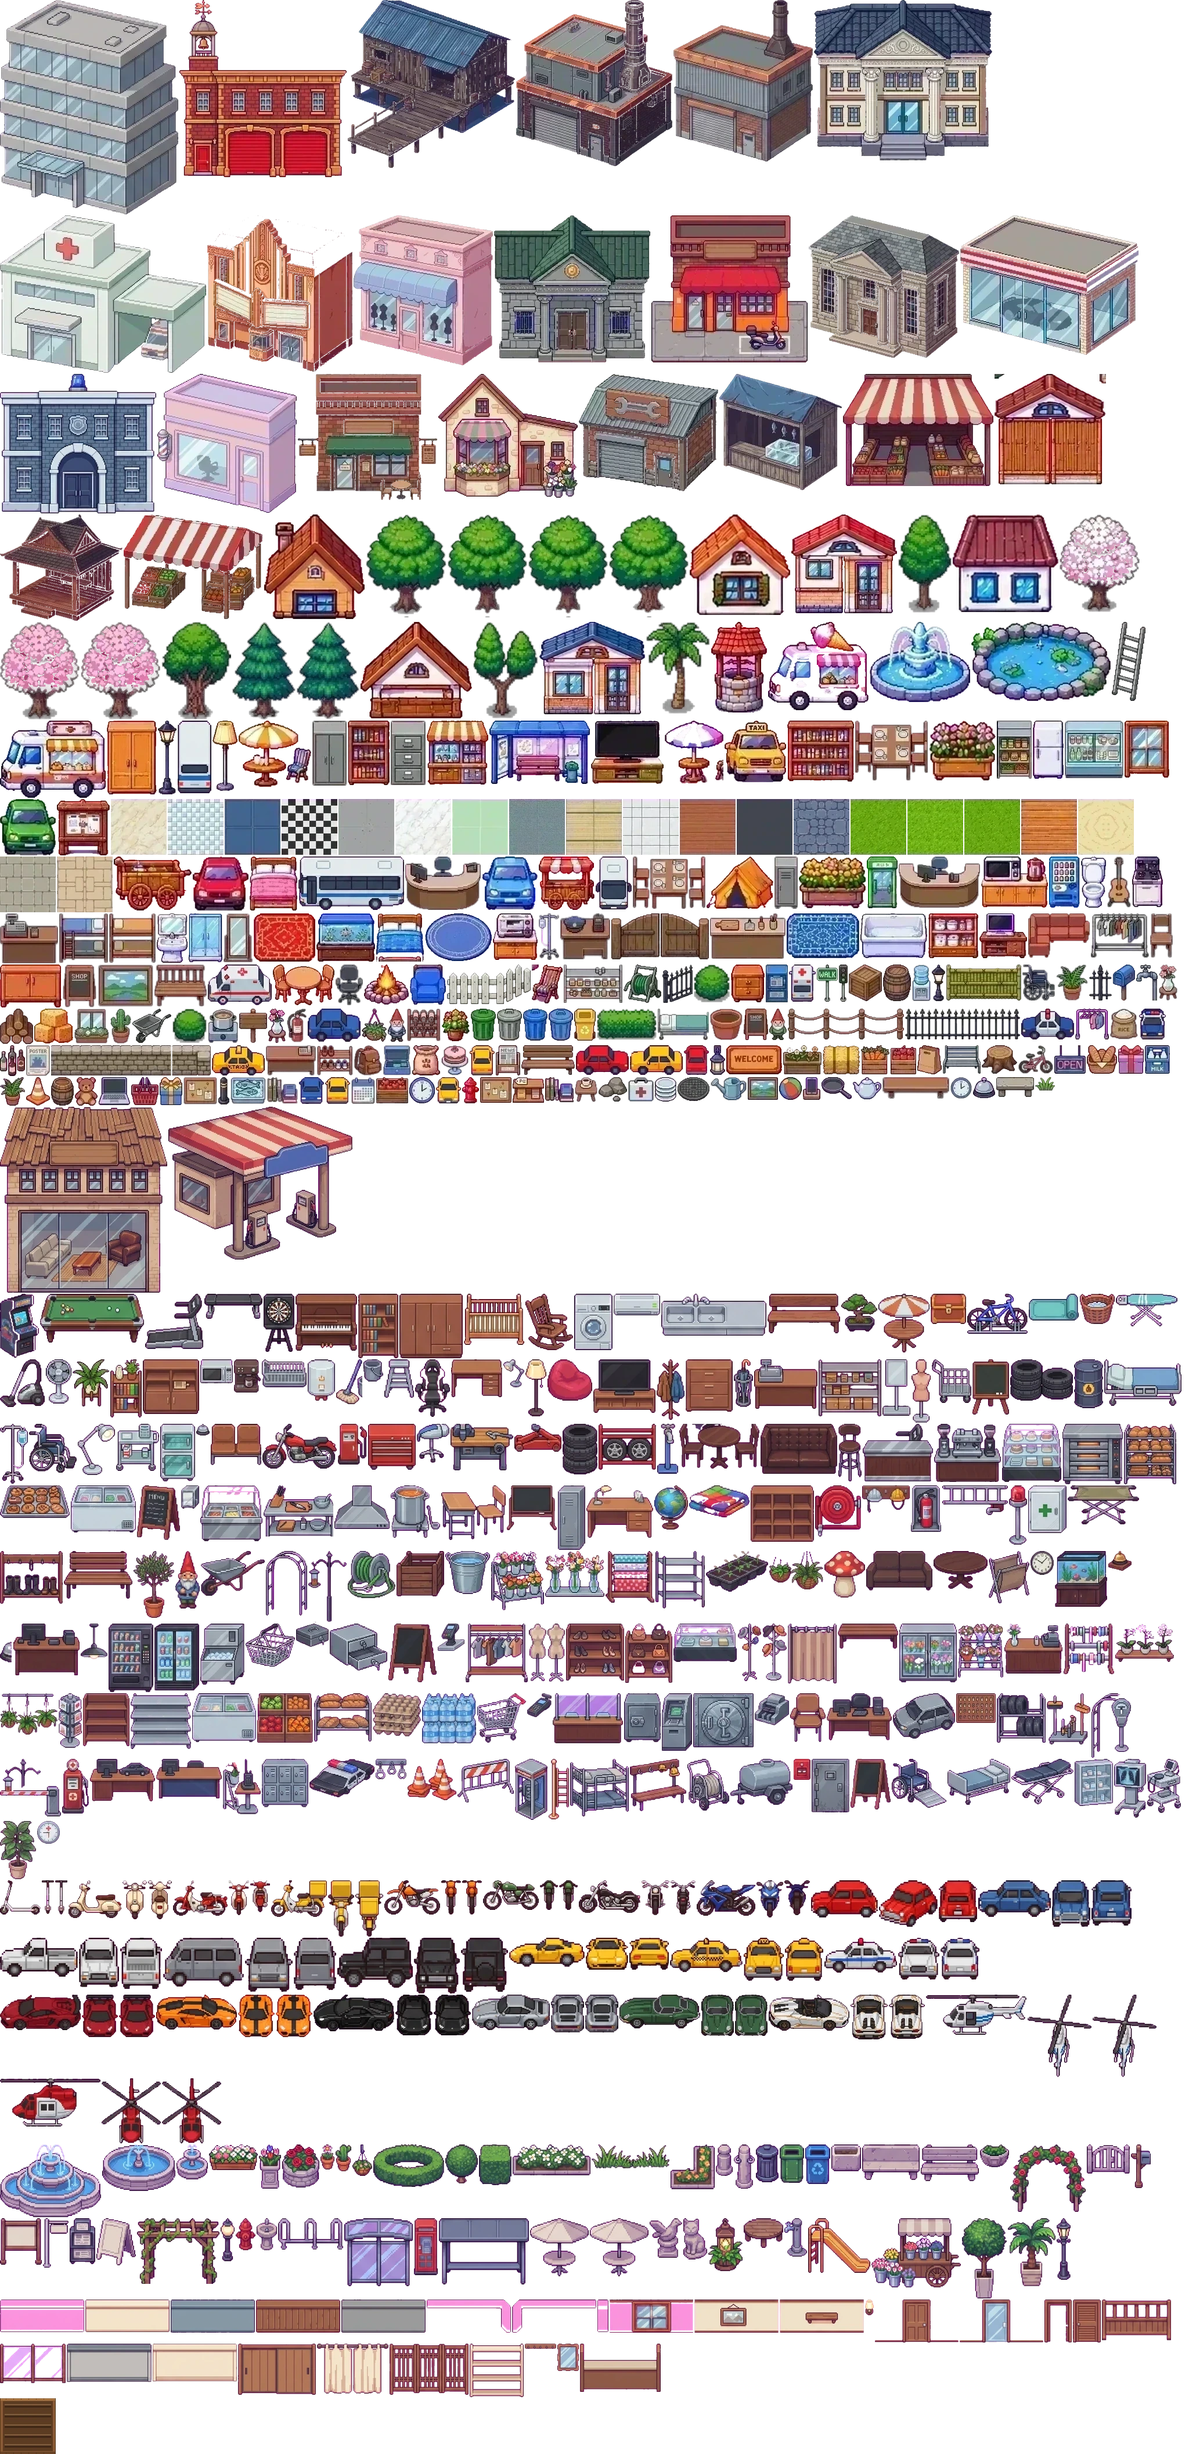
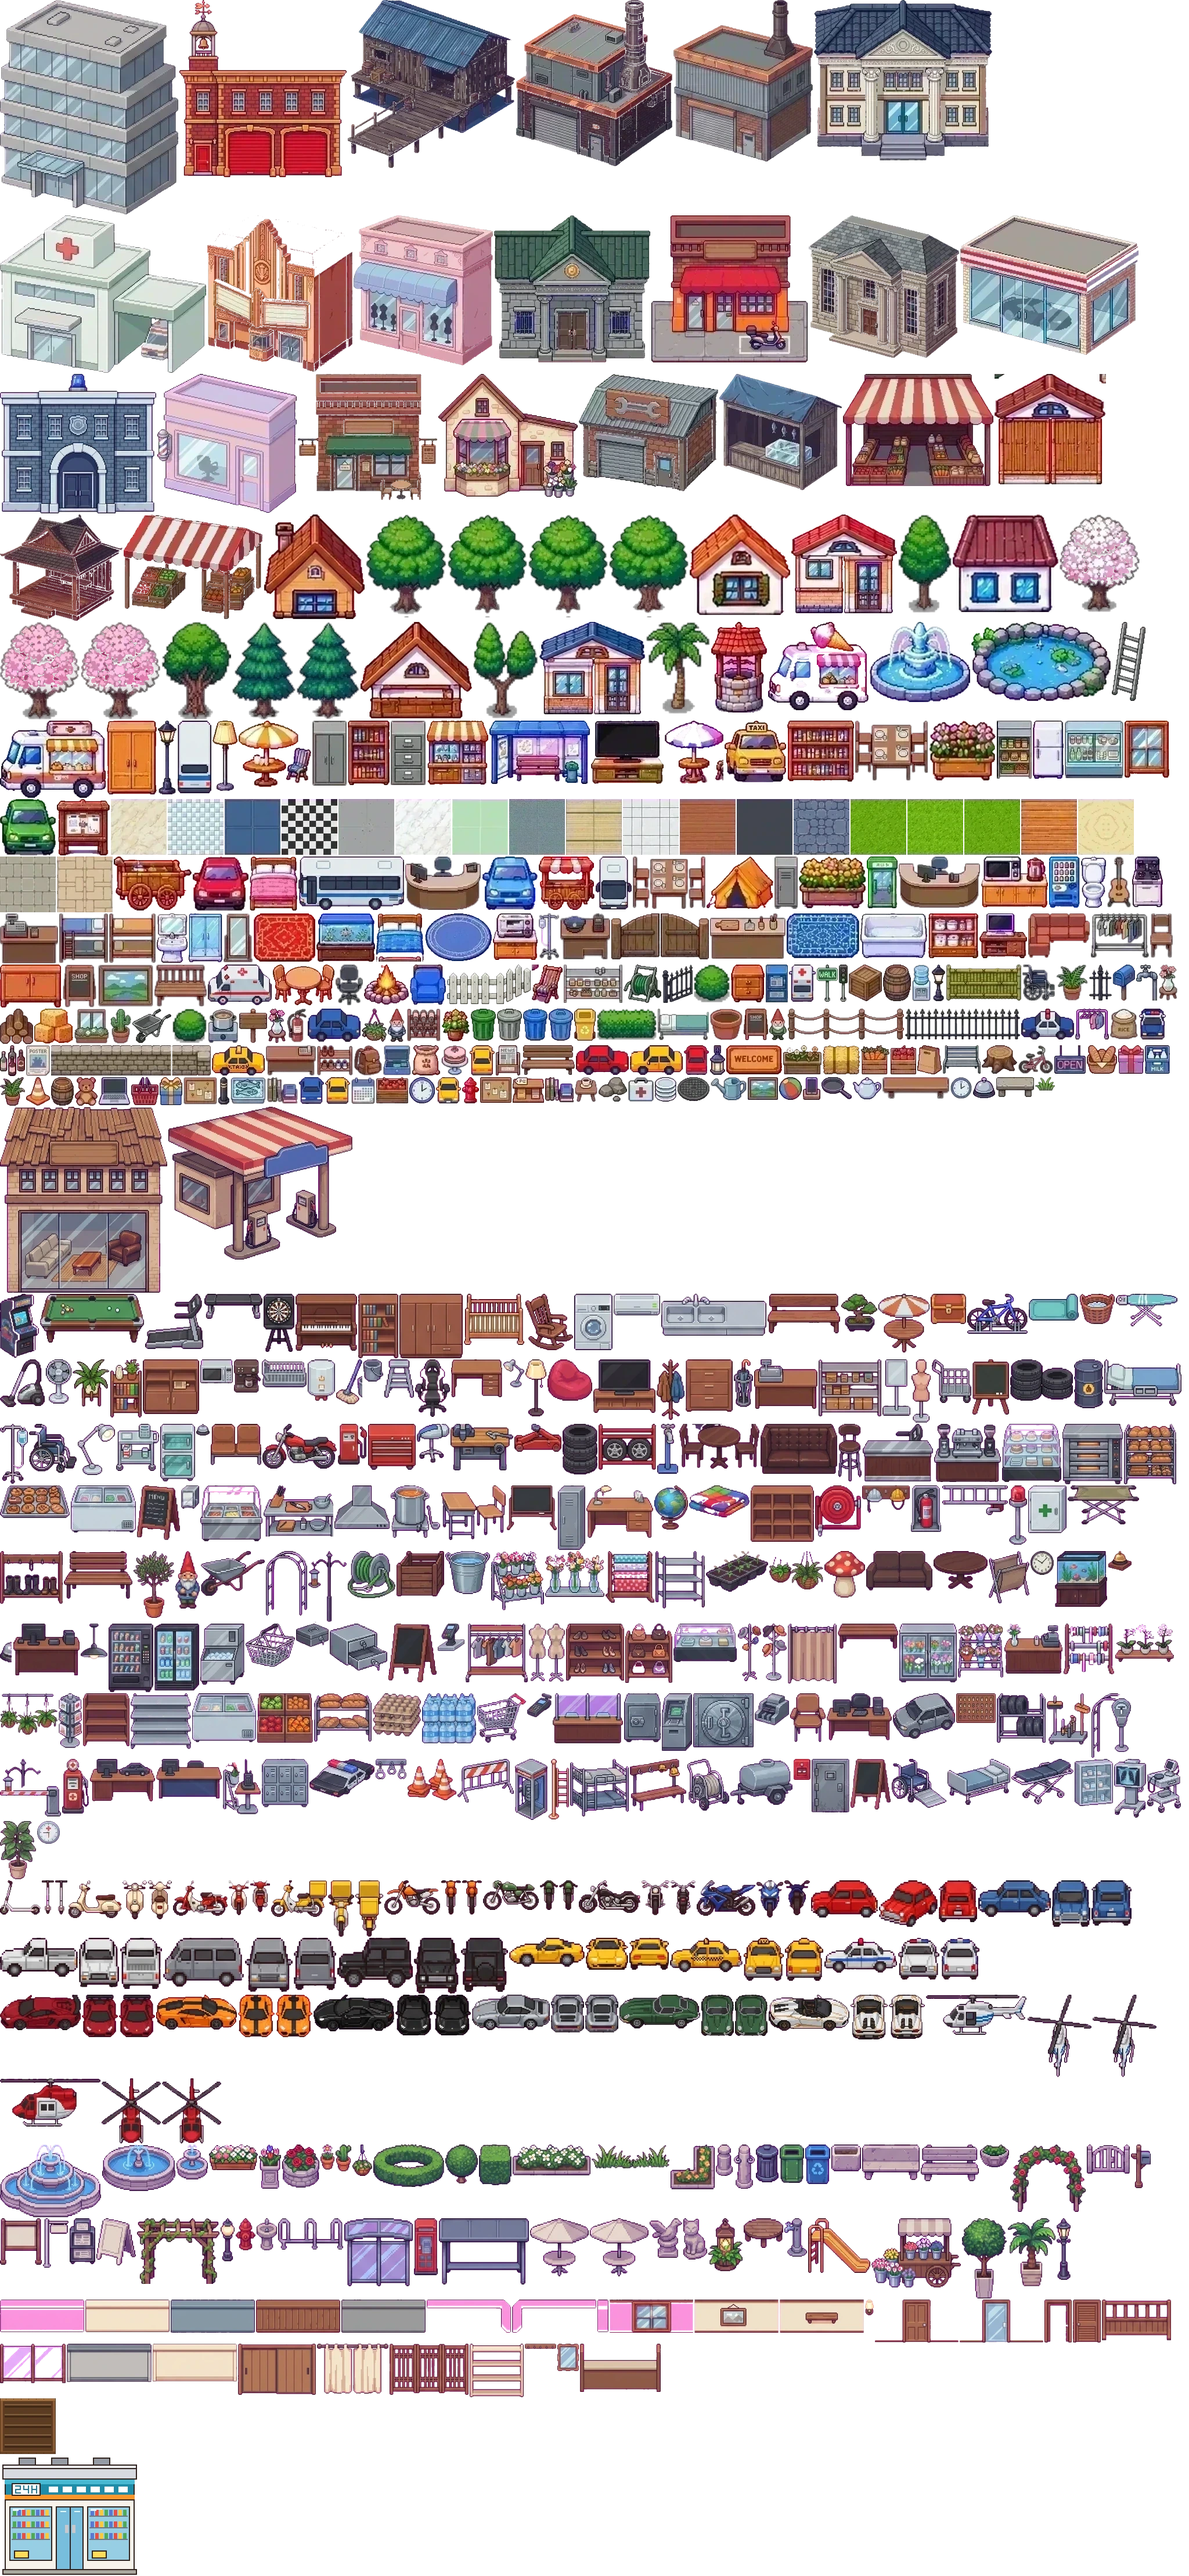
24-hour convenience store on the north street: always stocked water, bread, canned coffee, microwave bento, ice cream, snacks, energy drinks, cup noodles and first aid at a small mark-up
Claude-Session: https://claude.ai/code/session_011vTRLcvJmqJKhBboYRSi88

diff --git a/server/data.js b/server/data.js
@@ -121,7 +121,8 @@ function pathDown(b, toY) { const cx = Math.floor(b.x + b.w / 2); for (let y = b
   });
   rect(52, 85, 40, 2, 'c'); rect(8, 85, 30, 2, 'c'); rect(37, 78, 2, 9, 'c'); rect(38, 78, 12, 2, 'c'); rect(60, 78, 2, 7, 'c');
   // empty lots kept for careers added later
-  for (const [x, y] of [[75, 12], [84, 12]]) { rect(x - 2, y - 3, 6, 3, 'm'); prop('signpost', x + .5, y + .2); }
+  for (const [x, y] of [[84, 12]]) { rect(x - 2, y - 3, 6, 3, 'm'); prop('signpost', x + .5, y + .2); }
+  B('cstore', 'b_cstore', 72, 13, { label: 'ร้านสะดวกซื้อ 24 ชม.', icon: '🏪', st: 'cstore', outdoor: true, noSlot: true });   // open round the clock, served at the counter out front
   B('gas', 'b_gas', 65, 13, { label: 'ปั๊มน้ำมัน', icon: '⛽', deco: true });   // scenery (no vehicles in the game)
 
   // town square: fountain, benches, flowers
@@ -487,6 +488,8 @@ const dayAt = t => Math.floor((t + TIME_OFF + DAY_MS - MIDNIGHT_MS) / DAY_MS);
 // game hours that pass per real second at hour h
 const gameRate = h => (h >= CLOCK.dawn && h < CLOCK.dusk) ? (CLOCK.dusk - CLOCK.dawn) / (CLOCK.dayMin * 60) : (24 - (CLOCK.dusk - CLOCK.dawn)) / ((24 - CLOCK.dayMin) * 60);
 // opening hours [open, close) in game hours
+// the 24-hour store: what it stocks and its shelf mark-up over the base price
+const CSTORE = { items: ['water', 'bread', 'coffee', 'bento', 'icecream', 'snack', 'drink', 'noodle', 'painkiller', 'medkit'], markup: 1.35 };
 const HOURS = { fashion: [9, 21], furnshop: [9, 21], barber: [9, 21], police: [0, 24], square: [6, 22], office: [6, 21], market: [0, 24], warehouse: [5, 20], restaurant: [7, 23], kitchen: [5, 23], hospital: [0, 24], school: [7, 18],
   bank: [8, 17], dealer: [8, 20], toolshop: [8, 20], rider: [6, 23], coop: [5, 20], farmbuy: [5, 20], estate: [8, 20], fishclub: [5, 21] };
 const isOpen = (kind, h) => { const o = HOURS[kind]; return !o || (h >= o[0] && h < o[1]); };
@@ -533,6 +536,12 @@ const ITEMS = {
   somtam:  { name: 'ส้มตำ', icon: '🥗', kind: 'meal', base: 90, eat: { hunger: 22, energy: 6 }, menu: 1 },
   shabu:   { name: 'ชุดชาบู', icon: '🍲', kind: 'meal', base: 320, eat: { hunger: 70, energy: 10 }, menu: 1 },
 
+  // convenience-store goods (sold only at the 24-hour store)
+  water:  { name: 'น้ำดื่ม', icon: '💧', kind: 'goods', base: 12, eat: { energy: 3, hunger: 2 } },
+  bread:  { name: 'ขนมปังไส้หมูหยอง', icon: '🥐', kind: 'goods', base: 30, eat: { hunger: 18 } },
+  coffee: { name: 'กาแฟกระป๋อง', icon: '☕', kind: 'goods', base: 35, eat: { energy: 12 } },
+  bento:  { name: 'ข้าวกล่องเวฟ', icon: '🍱', kind: 'goods', base: 55, eat: { hunger: 32, energy: 4 } },
+  icecream: { name: 'ไอศกรีมแท่ง', icon: '🍦', kind: 'goods', base: 25, eat: { hunger: 6, happy: 4 } },
   snack:  { name: 'ขนม', icon: '🍪', kind: 'goods', base: 30, eat: { hunger: 10 }, wholesale: 18, stock: 80, refill: 8 },
   drink:  { name: 'เครื่องดื่มชูกำลัง', icon: '🥤', kind: 'goods', base: 150, eat: { energy: 25 }, wholesale: 105, stock: 12, refill: 25 },
   med_fever:  { name: 'ยาลดไข้', icon: '💊', kind: 'goods', pharmacy: true, base: 300, cures: ['cold'], eat: { health: 5 } },
@@ -987,7 +996,7 @@ PROPS.filter(p => /bin/.test(p.s) && areaAt(p.x, p.y)?.id === 'town').forEach((p
 module.exports = {
   RUN, CLOCK, gameRate, DOCTOR, FISHING, OUTFITS,
   LOOKS, SHIRTS, NPC_LINES, MONTH_DAYS, MONTHS, monthIdx, dateAt, UTIL, POLICE_TEST, POLICE, HAPPY,
-  W, H, TILES, AREAS, ROOMS, BUILDINGS, STATIONS, PROPS, TREES, LOTS, GARDEN, GATES, YARD, YARDS, yardZone, SPAWN, RADIUS, SOLID,
+  W, H, TILES, AREAS, ROOMS, BUILDINGS, STATIONS, PROPS, TREES, LOTS, GARDEN, GATES, CSTORE, YARD, YARDS, yardZone, SPAWN, RADIUS, SOLID,
   areaAt, roomAt, blocked, DAY_MS, TIME_OFF, hourAt, dayAt, HOURS, isOpen, SHIFT,
   RARITY, ITEMS, CATEGORIES, CROPS, RECIPES, FISH, BIG_FISH, CAREERS, LICENSES, DRIVING_TEST, JOB_COOLDOWN_MIN, OFFICE_TITLES, OFFICE_WAGE, RIDER, EVENTS,
   VEHICLES, TOOLS, TOOL_PRICES, HOUSE_PRICES, HOUSE_RENT, FURNITURE, HOUSE_FLOORS, FLOOR_PRICE, floorRoom, BANK, DISEASES, TREATMENTS, NPC_NAMES, ACHIEVEMENTS,

diff --git a/server/index.js b/server/index.js
@@ -830,6 +830,13 @@ function act(a, m) {
       addItem(a, id, bought); markMe(a); wdAt = 0;
       return toast(a, `ซื้อ ${it.icon}${it.name} x${bought} จากผู้เล่น รวม ${money(spent)}`, '🛍');
     }
+    case 'cstore.buy': {                      // the 24-hour convenience store: always stocked, a little dearer than the market
+      const id = m.item, it = D.ITEMS[id]; if (!it || !D.CSTORE.items.includes(id)) return;
+      const q = clamp(Math.floor(+m.qty) || 1, 1, 20), unit = Math.ceil(it.base * D.CSTORE.markup);
+      if (!pay(a, unit * q)) return;
+      addItem(a, id, q); markMe(a); quest(a, 'buy', q);
+      return toast(a, `ซื้อ ${it.icon}${it.name} x${q} ${money(unit * q)} · ขอบคุณที่ใช้บริการ 🙏`, '🏪');
+    }
     case 'market.npcbuy': {
       const id = m.item, it = D.ITEMS[id]; if (!it || it.kind === 'fish' && it.base >= 1000 || it.menu) return;
       const q = clamp(Math.floor(+m.qty) || 1, 1, 20), unit = npcSellPrice(id);
@@ -1282,6 +1289,7 @@ function useItem(a, id) {
   if (e.hunger) { a.hunger = Math.min(100, a.hunger + e.hunger); quest(a, 'eat'); }
   if (e.energy) a.energy = Math.min(100, a.energy + e.energy);
   if (e.health) a.health = Math.min(100, a.health + e.health);
+  if (e.happy) joy(a, e.happy);
   const healed = (it.cures || []).filter(d => cure(a, d));
   if (healed.length) toast(a, `หายจาก${healed.map(d => DZ[d].name).join(', ')}แล้ว`, '💊');
   if (id === 'snack') infect(a, 'poison', 0.04);
@@ -2179,7 +2187,7 @@ function login(ws, m) {
     map: { w: D.W, h: D.H, tiles: D.TILES, buildings: D.BUILDINGS }, stations: D.STATIONS, areas: D.AREAS, looks: D.LOOKS, shirts: D.SHIRTS, solid: D.SOLID,
     items: D.ITEMS, cats: D.CATEGORIES, crops: D.CROPS, recipes: D.RECIPES, careers: D.CAREERS, licenses: D.LICENSES,
     titles: D.OFFICE_TITLES, wages: D.OFFICE_WAGE, speed: SPEED, clock: D.CLOCK, run: D.RUN, build: BUILD, fishing: D.FISHING, outfitDefs: D.OUTFITS, doctor: D.DOCTOR, adminName: ADMIN_NAME, adminTitle: ADMIN_TITLE, radius: D.RADIUS, chat: chatLog.slice(-25), isNew, dayMs: D.DAY_MS, hours: D.HOURS, shift: D.SHIFT, months: D.MONTHS, monthDays: D.MONTH_DAYS,
-    props: D.PROPS, trees: D.TREES, lotsDef: D.LOTS, garden: D.GARDEN, yard: D.YARD, diseases: D.DISEASES, treatments: D.TREATMENTS, ach: D.ACHIEVEMENTS, fish: D.FISH,
+    props: D.PROPS, trees: D.TREES, lotsDef: D.LOTS, garden: D.GARDEN, yard: D.YARD, cstore: D.CSTORE, diseases: D.DISEASES, treatments: D.TREATMENTS, ach: D.ACHIEVEMENTS, fish: D.FISH,
     shop: { vehicles: D.VEHICLES, tools: D.TOOLS, toolPrices: D.TOOL_PRICES, housePrices: D.HOUSE_PRICES, houseRent: D.HOUSE_RENT, furniture: D.FURNITURE, floorPrice: D.FLOOR_PRICE, floors: D.HOUSE_FLOORS, bank: D.BANK },
   });
   send(a, meView(a)); send(a, worldView());

diff --git a/public/game.js b/public/game.js
@@ -1533,6 +1533,12 @@ function renderPanel(p) {
       }
       return `<h2>🏪 ตลาดกลาง</h2><div class="sub">${hoursTxt('market')}</div>${tabs}${body}`;
     }
+    case 'cstore': {
+      const rows = (G.cstore?.items || []).map(id => { const it = G.items[id], u = Math.ceil(it.base * G.cstore.markup), e = it.eat || {};
+        return itemRow(id, `<div>${B(money(u), { t: 'act', st, a: 'buy', item: id, qty: 1 }, 'good', me.money < u)}${B('x5', { t: 'act', st, a: 'buy', item: id, qty: 5 }, '', me.money < u * 5)}</div>`,
+          [e.hunger && `อิ่ม +${e.hunger}`, e.energy && `พลัง +${e.energy}`, e.health && `เลือด +${e.health}`, e.happy && `สุข +${e.happy}`].filter(Boolean).join(' · ') + ` · มีอยู่ ${me.inv[id] || 0}`); }).join('');
+      return `<h2>🏪 ร้านสะดวกซื้อ 24 ชม.</h2><div class="sub">เปิดตลอด 24 ชั่วโมง ของมีเสมอ ไม่ต้องรอใครวางขาย · ราคาสูงกว่าตลาดนิดหน่อย</div><div class="list">${rows}</div>`;
+    }
     case 'warehouse': {
       const rows = Object.entries(G.items).filter(([, it]) => it.wholesale).map(([id, it]) =>
         itemRow(id, `<div>${B('ซื้อ 1', { t: 'act', st, a: 'buy', item: id, qty: 1 })}${B('x5', { t: 'act', st, a: 'buy', item: id, qty: 5 })}${B('x10', { t: 'act', st, a: 'buy', item: id, qty: 10 })}</div>`,

diff --git a/tools/add_cstore.py b/tools/add_cstore.py
@@ -1,0 +1,54 @@
+"""Draw the 24-hour convenience store building (b_cstore) in pixel-art style and append it to the atlas.
+
+    python3 tools/add_cstore.py
+"""
+import json
+from PIL import Image, ImageDraw
+from add_furniture import IMG, JS
+
+def store():
+    W, H = 120, 104                                  # drawn at half size, then doubled (chunky pixels like the other buildings)
+    im = Image.new('RGBA', (W, H), (0, 0, 0, 0)); d = ImageDraw.Draw(im)
+    ol = (52, 36, 30, 255)
+    # roof slab + parapet
+    d.rectangle([2, 8, W - 3, 20], fill=(214, 218, 224, 255), outline=ol)
+    d.rectangle([2, 8, W - 3, 11], fill=(236, 239, 243, 255), outline=ol)
+    for x in (16, 44, 80): d.rectangle([x, 2, x + 14, 8], fill=(150, 156, 166, 255), outline=ol)   # AC units on the roof
+    # sign band
+    d.rectangle([4, 21, W - 5, 37], fill=(32, 140, 170, 255), outline=ol)
+    d.rectangle([4, 21, W - 5, 24], fill=(70, 185, 210, 255))
+    d.rectangle([4, 34, W - 5, 37], fill=(250, 150, 40, 255))
+    # "24" badge + "H"
+    d.rectangle([10, 24, 34, 34], fill=(255, 255, 255, 255), outline=ol)
+    for (x0, y0, x1, y1) in [(13,26,17,26),(17,26,17,29),(13,29,17,29),(13,29,13,32),(13,32,17,32),(20,26,20,29),(20,29,24,29),(24,26,24,32),(27,26,27,32),(31,26,31,32),(27,29,31,29)]:
+        d.line([x0, y0, x1, y1], fill=(32, 120, 150, 255), width=1)
+    for i in range(6): d.rectangle([42 + i * 12, 27, 49 + i * 12, 31], fill=(255, 255, 255, 230))   # store name strip (stylised)
+    # wall
+    d.rectangle([4, 38, W - 5, H - 6], fill=(246, 243, 236, 255), outline=ol)
+    # windows with shelves inside
+    for (x0, x1) in [(8, 44), (W - 45, W - 9)]:
+        d.rectangle([x0, 44, x1, H - 14], fill=(150, 206, 228, 255), outline=ol)
+        for y in (52, 62, 72):
+            d.line([x0 + 2, y, x1 - 2, y], fill=(110, 120, 130, 255))
+            for xx in range(x0 + 3, x1 - 3, 4): d.rectangle([xx, y - 5, xx + 2, y - 1], fill=[(230, 80, 70, 255), (250, 200, 60, 255), (80, 170, 90, 255), (90, 120, 210, 255)][(xx // 4) % 4])
+        d.line([x0 + 3, 46, x0 + 12, 46], fill=(225, 245, 255, 255)); d.line([x0 + 3, 47, x0 + 7, 47], fill=(225, 245, 255, 255))
+        d.rectangle([x0 + 4, H - 22, x0 + 16, H - 16], fill=(255, 220, 90, 255), outline=ol)        # promo poster
+    # glass double door
+    d.rectangle([48, 44, W - 49, H - 6], fill=(120, 190, 220, 255), outline=ol)
+    d.line([W // 2, 44, W // 2, H - 6], fill=ol)
+    d.line([52, 48, 56, 48], fill=(230, 248, 255, 255)); d.line([W // 2 + 4, 48, W // 2 + 8, 48], fill=(230, 248, 255, 255))
+    d.rectangle([W // 2 - 4, 60, W // 2 - 2, 66], fill=(200, 200, 205, 255)); d.rectangle([W // 2 + 2, 60, W // 2 + 4, 66], fill=(200, 200, 205, 255))
+    # base step
+    d.rectangle([2, H - 6, W - 3, H - 2], fill=(170, 168, 160, 255), outline=ol)
+    return im.resize((W * 2, H * 2), Image.NEAREST)
+
+def main():
+    atlas = Image.open(IMG).convert('RGBA'); data = json.load(open(JS))
+    if 'b_cstore' in data['sprites']: return print('already there')
+    im = store(); y = data['size'][1] + 2
+    out = Image.new('RGBA', (atlas.width, y + im.height)); out.paste(atlas, (0, 0)); out.paste(im, (0, y))
+    data['sprites']['b_cstore'] = [0, y, im.width, im.height]; data['size'] = [atlas.width, y + im.height]
+    out.save(IMG, 'WEBP', quality=92, method=6); json.dump(data, open(JS, 'w'), separators=(',', ':')); print('added b_cstore', out.size)
+
+if __name__ == '__main__':
+    main()
